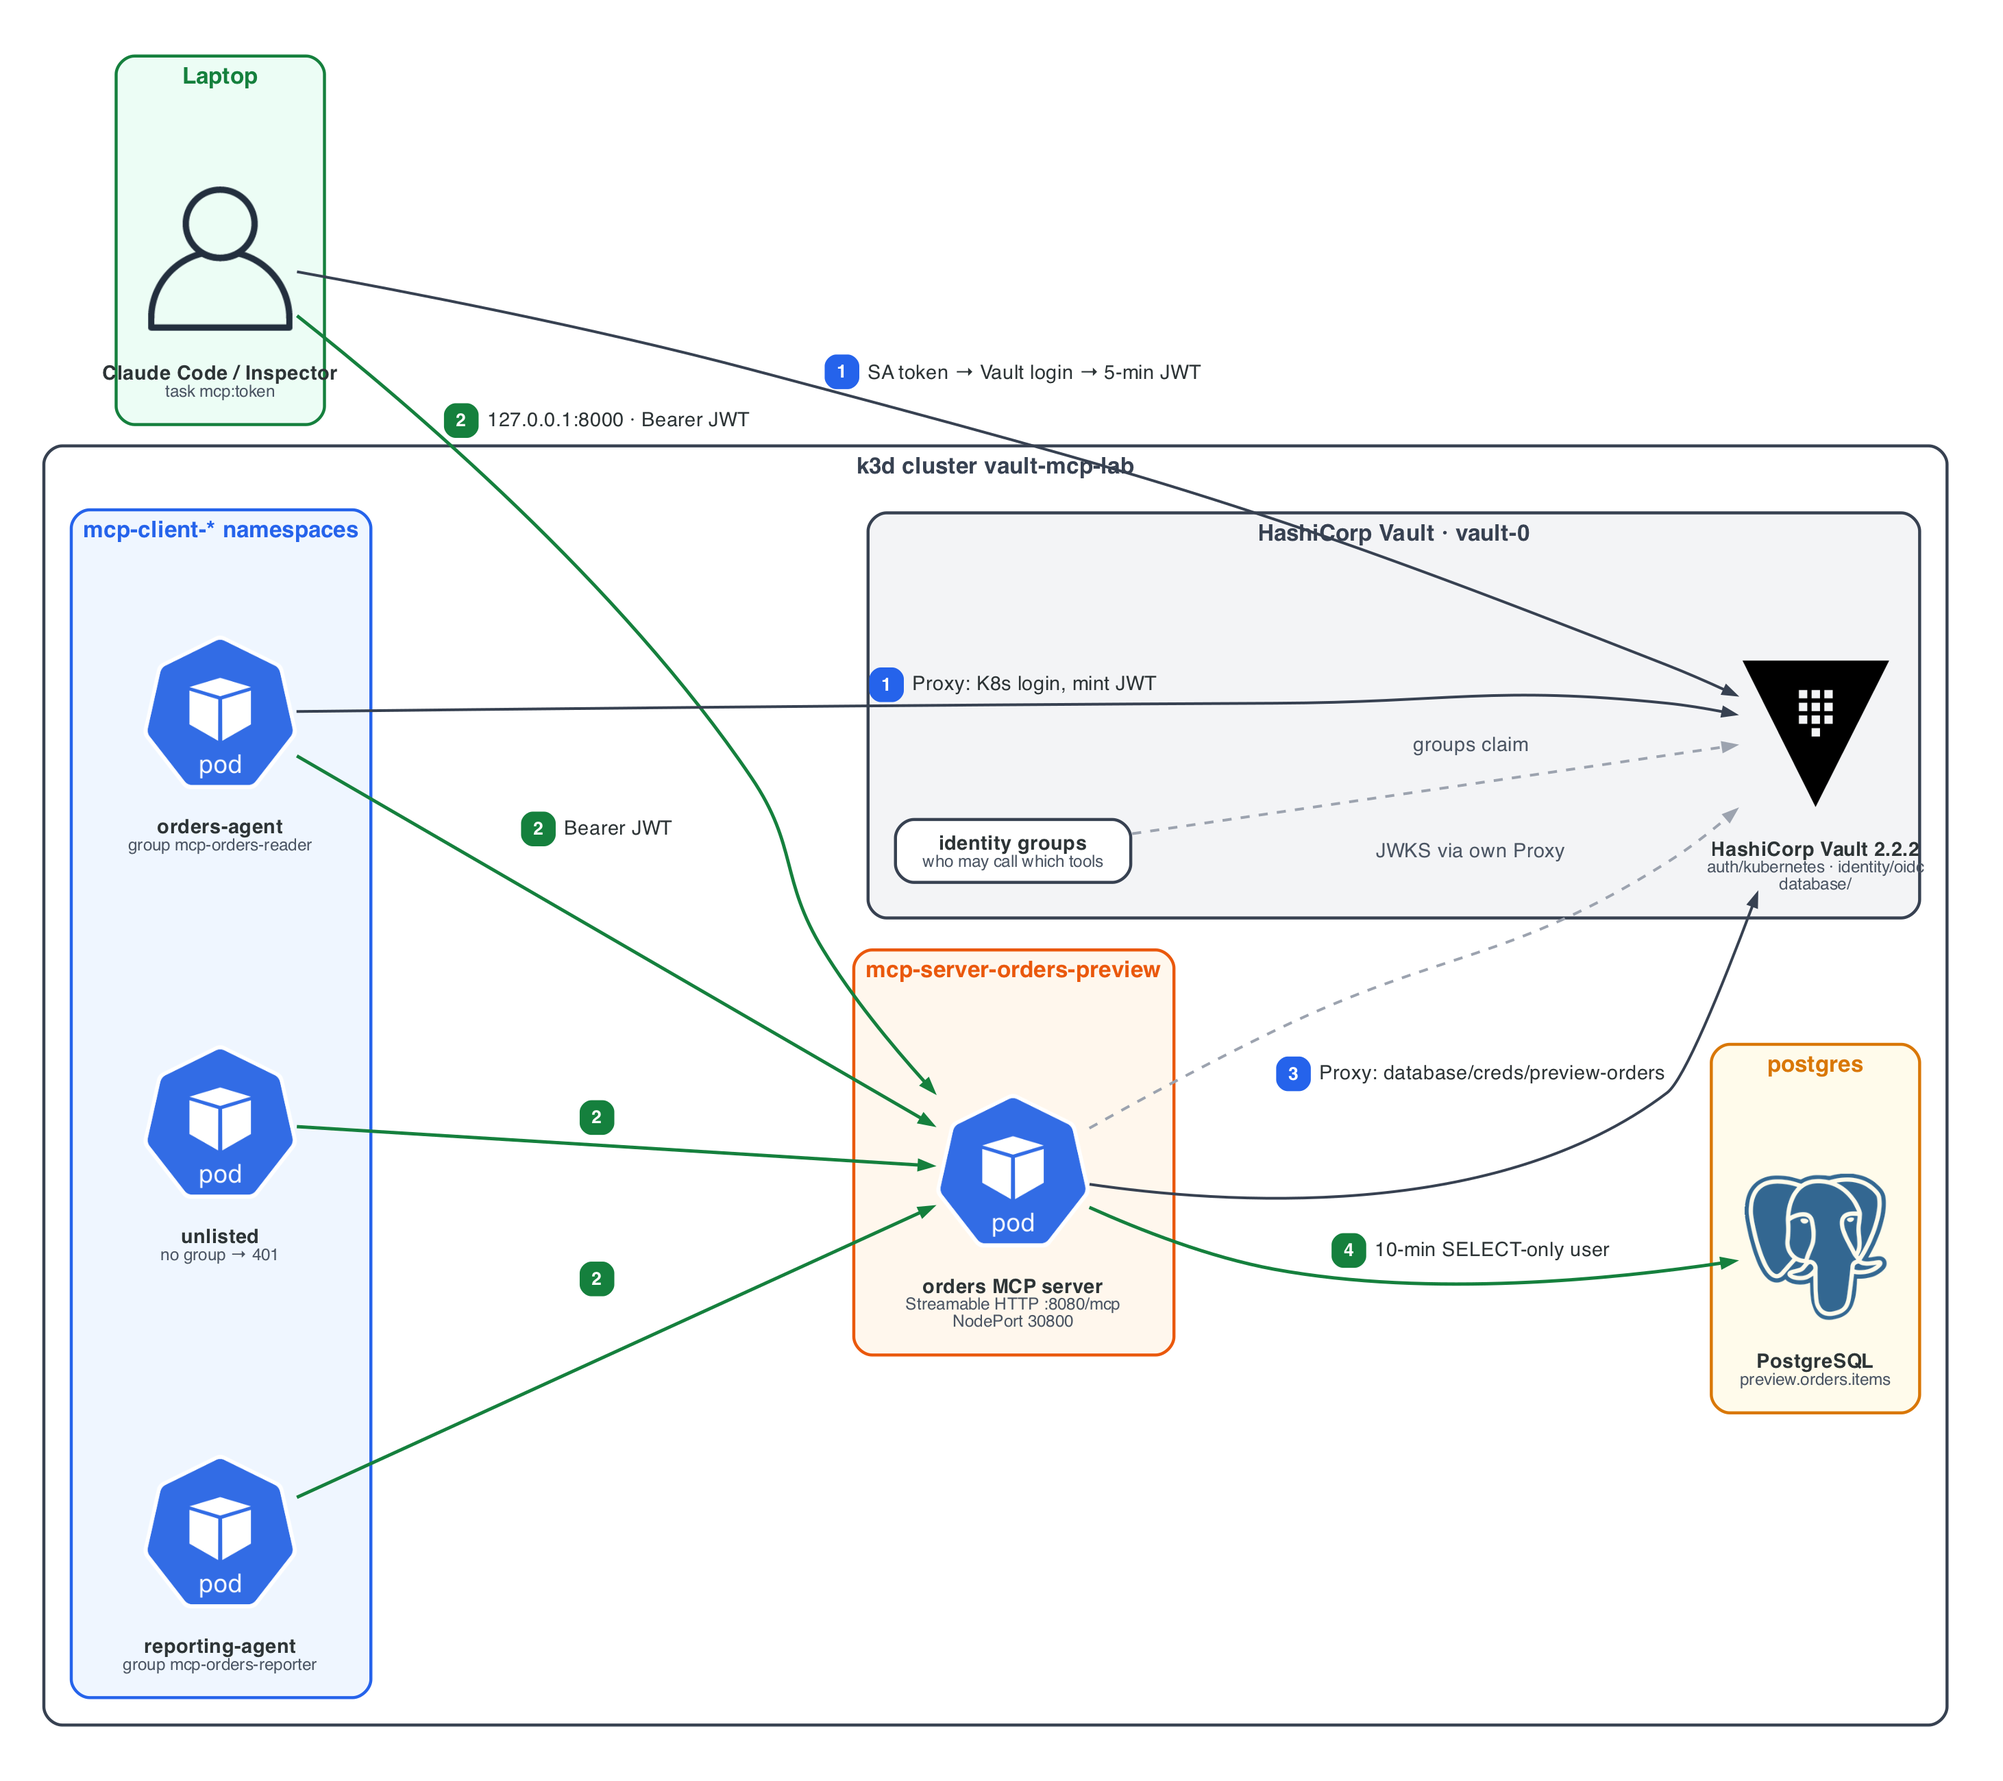
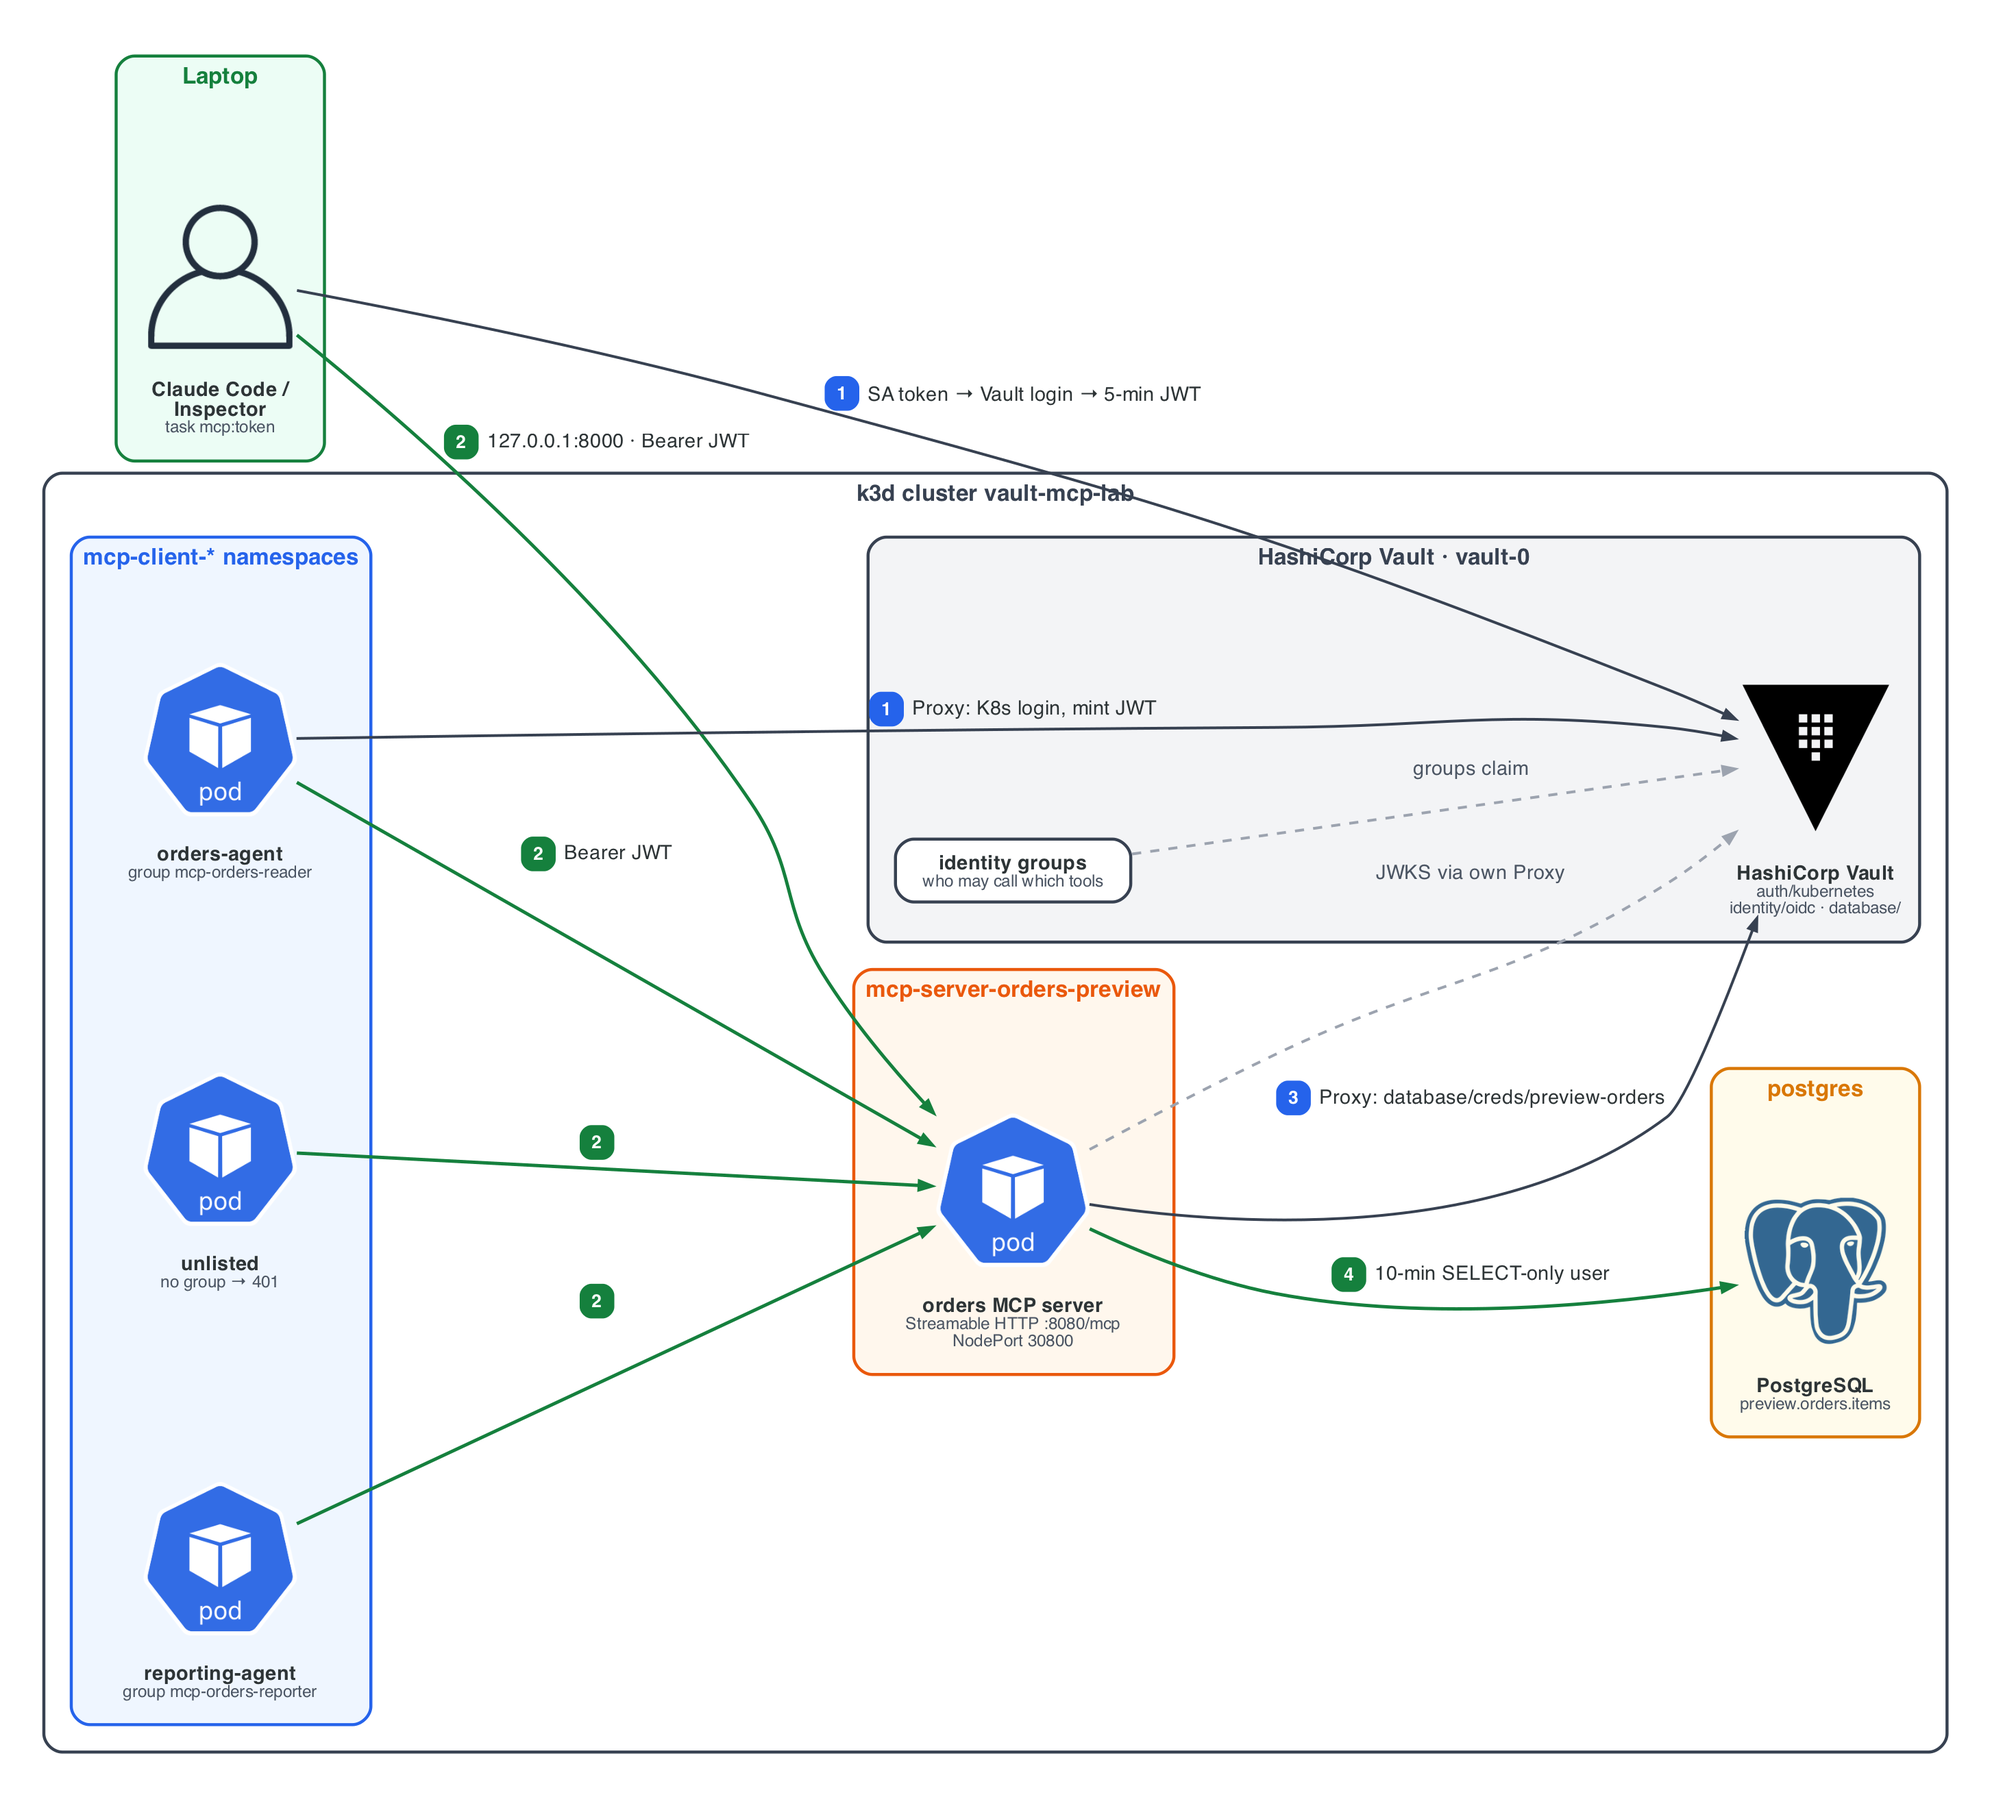
docs: fix architecture diagram labels

diff --git a/docs/diagrams/architecture.py b/docs/diagrams/architecture.py
@@ -24,7 +24,7 @@ from diagrams.onprem.security import Vault
 # Grid (LR): clients (laptop + client pods) · MCP server · Vault + PostgreSQL
 with diagram("architecture", direction="LR"):
     with laptop("Laptop"):
-        you = icon(User, "Claude Code / Inspector", "task mcp:token")
+        you = icon(User, "Claude Code /<br/>Inspector", "task mcp:token")
 
     with group("k3d cluster vault-mcp-lab", GREY, "white"):
         with client_ns("mcp-client-* namespaces"):
@@ -38,8 +38,8 @@ with diagram("architecture", direction="LR"):
         with vault_ns():
             vault = icon(
                 Vault,
-                "HashiCorp Vault 2.2.2",
-                "auth/kubernetes · identity/oidc\ndatabase/",
+                "HashiCorp Vault",
+                "auth/kubernetes\nidentity/oidc · database/",
             )
             groups = box("identity groups", "who may call which tools")
         with data_ns():

diff --git a/docs/diagrams/common.py b/docs/diagrams/common.py
@@ -33,7 +33,8 @@ def label(title: str, detail: str = "") -> str:
 
 def icon(cls, title: str, detail: str = "", **attrs) -> Node:
     """Official icon node; pads the height for each label line so text never overlaps the icon."""
-    lines = 1 + len([line for line in detail.split("\n") if line])
+    title_lines = 1 + title.count("<br/>")
+    lines = title_lines + len([line for line in detail.split("\n") if line])
     return cls(label=label(title, detail), height=str(1.9 + 0.32 * lines), **attrs)
 
 
